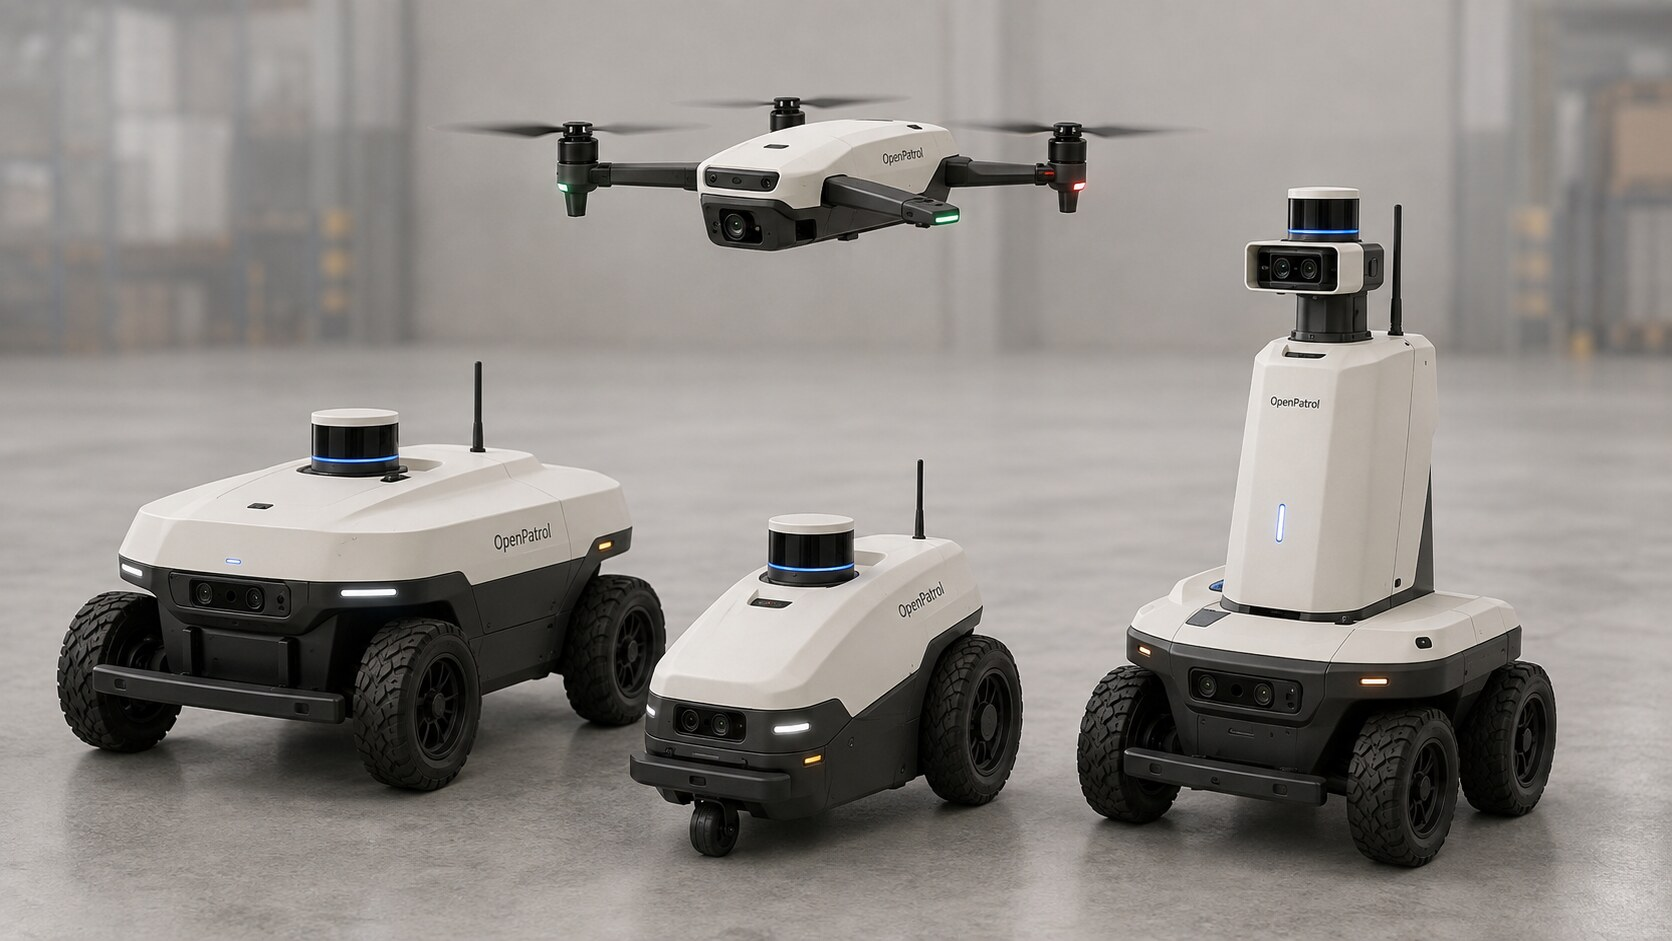
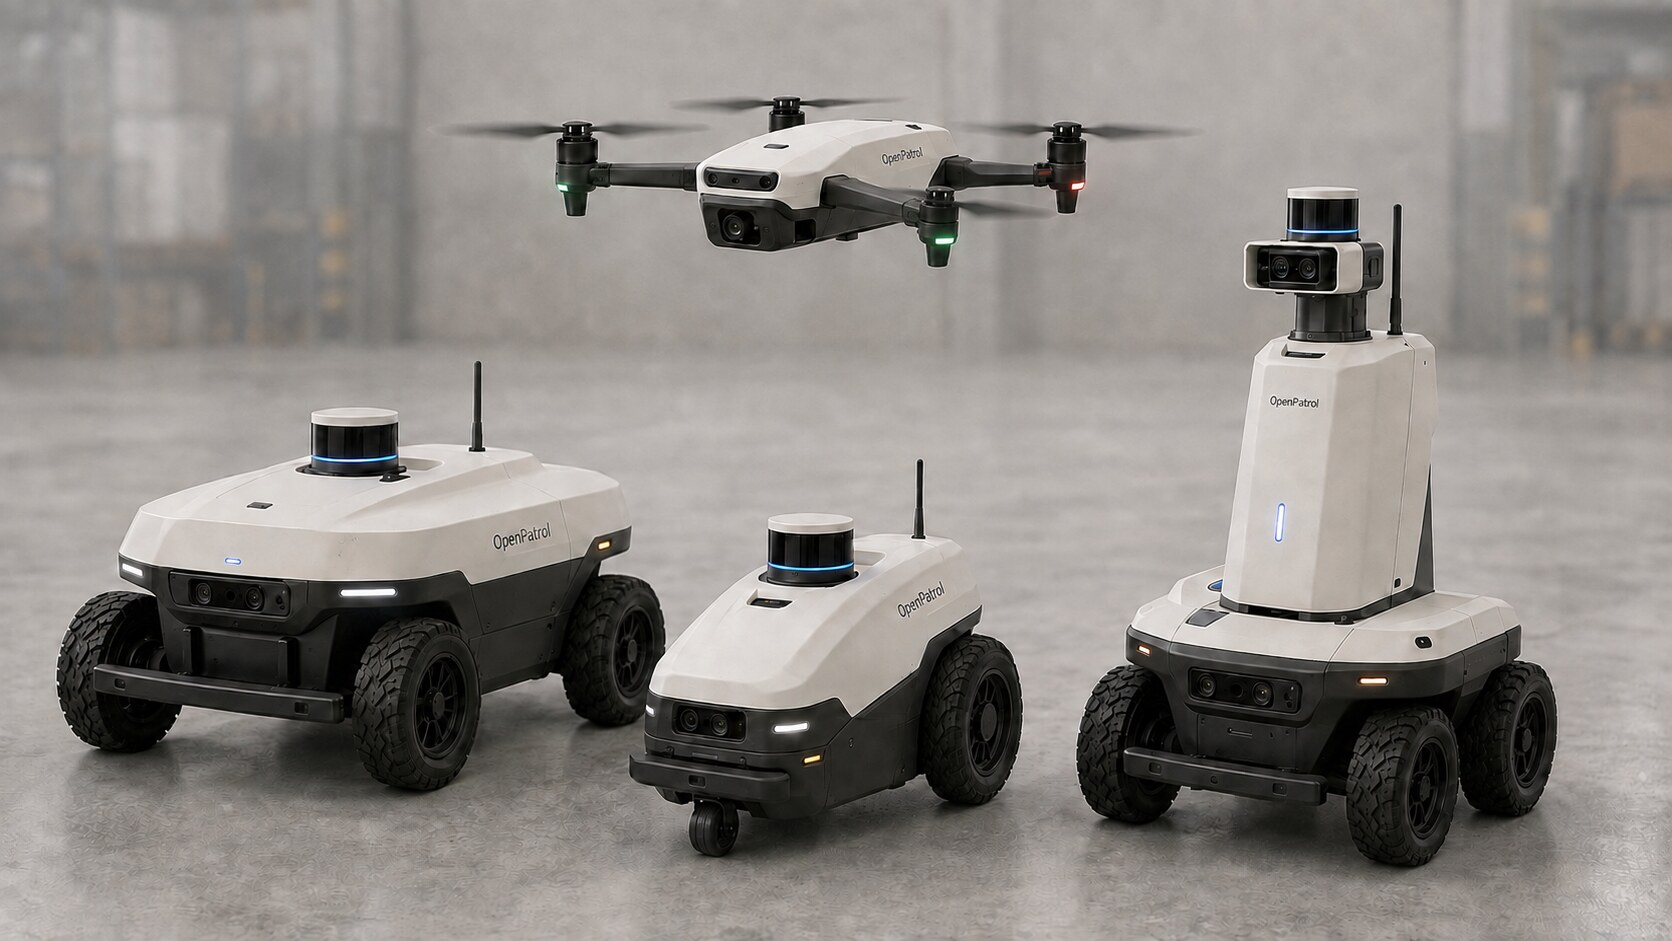
Fix AirScout renders and complete GitHub Pages presentation

diff --git a/site/styles.css b/site/styles.css
@@ -1,7 +1,7 @@
 :root{--ink:#111923;--muted:#536171;--line:#dce3ea;--soft:#f4f7f9;--orange:#ff5a1f;--blue:#2169c8;--max:1240px}
 *{box-sizing:border-box}html{scroll-behavior:smooth}body{margin:0;color:var(--ink);background:#fff;font:16px/1.55 Inter,ui-sans-serif,system-ui,-apple-system,BlinkMacSystemFont,"Segoe UI",sans-serif}a{color:inherit;text-decoration:none}.wrap{max-width:var(--max);margin:auto;padding-left:32px;padding-right:32px}
 .nav{height:72px;border-bottom:1px solid var(--line);display:flex;align-items:center;padding:0 max(24px,calc((100vw - var(--max))/2 + 32px));gap:42px;position:sticky;top:0;background:rgba(255,255,255,.94);backdrop-filter:blur(12px);z-index:10}.brand{font-size:19px;font-weight:760;display:flex;align-items:center;gap:10px}.mark{width:32px;height:32px;display:grid;place-items:center;border:2px solid var(--orange);color:var(--orange);font-size:10px;transform:rotate(45deg)}nav{display:flex;gap:28px;margin-left:auto}nav a,.nav-github{font-size:14px;color:#344252}.nav-github{font-weight:700;color:var(--ink)}
-.hero{min-height:660px;display:grid;grid-template-columns:.8fr 1.2fr;align-items:center;gap:50px;padding-top:70px;padding-bottom:70px}.hero h1{font-size:clamp(52px,6vw,84px);line-height:.95;letter-spacing:-.06em;margin:0 0 30px}.hero h1 span{color:var(--blue)}.hero-copy>p{max-width:550px;color:var(--muted);font-size:19px}.actions{display:flex;gap:12px;margin:34px 0}.button{border:1px solid #b8c2cc;padding:12px 18px;font-weight:700;font-size:14px}.button.primary{background:var(--orange);border-color:var(--orange);color:#fff}.status{border-left:3px solid var(--orange);padding:7px 12px;display:flex;gap:14px;font-size:13px}.status strong{color:var(--orange);text-transform:uppercase}.hero-visual{position:relative;background-image:linear-gradient(#dbe7f8 1px,transparent 1px),linear-gradient(90deg,#dbe7f8 1px,transparent 1px);background-size:28px 28px;padding:28px;border:1px solid #c8dcf6}.hero-visual img{width:100%;display:block}.measure{position:absolute;color:var(--blue);font:11px ui-monospace,monospace}.m1{top:8px;left:10px}.m2{right:10px;bottom:8px}
+.hero{min-height:660px;display:grid;grid-template-columns:.8fr 1.2fr;align-items:center;gap:50px;padding-top:70px;padding-bottom:70px}.hero h1{font-size:clamp(52px,6vw,84px);line-height:.95;letter-spacing:-.06em;margin:0 0 30px}.hero h1 span{color:var(--blue)}.hero-copy>p{max-width:550px;color:var(--muted);font-size:19px}.actions{display:flex;gap:12px;margin:34px 0}.button{border:1px solid #b8c2cc;padding:12px 18px;font-weight:700;font-size:14px}.button.primary{background:var(--orange);border-color:var(--orange);color:#fff}.status{border-left:3px solid var(--orange);padding:7px 12px;display:flex;gap:14px;font-size:13px}.status strong{color:var(--orange);text-transform:uppercase}.hero-visual{position:relative;background-image:linear-gradient(#dbe7f8 1px,transparent 1px),linear-gradient(90deg,#dbe7f8 1px,transparent 1px);background-size:28px 28px;padding:28px;border:1px solid #c8dcf6}.hero-visual img{width:100%;display:block}.measure{position:absolute;color:var(--blue);font:11px ui-monospace,monospace}.m1{top:8px;left:10px}.m2{right:10px;bottom:8px}.product-hero{padding:12px;background:#e9edf0}.product-hero img{aspect-ratio:16/9;object-fit:cover}.operations{padding-top:20px;padding-bottom:90px}.operations figure{margin:36px 0 0}.operations img{display:block;width:100%;border:1px solid var(--line)}.operations figcaption{margin-top:10px;color:var(--muted);font:12px ui-monospace,monospace;text-transform:uppercase;letter-spacing:.04em}
 .band{background:var(--soft);padding:78px 0}.band h2,.section-head h2,.architecture h2,.platforms h2,.start h2,.boundary h2{font-size:38px;letter-spacing:-.035em;margin:0 0 15px}.band h2:after,.section-head h2:after,.architecture h2:after,.platforms h2:after,.start h2:after,.boundary h2:after{content:"";display:block;width:42px;border-bottom:3px solid var(--orange);padding-top:12px}.capabilities{display:grid;grid-template-columns:repeat(4,1fr);margin-top:45px}.capabilities article{padding:0 28px;border-left:1px solid var(--line)}.capabilities article:first-child{padding-left:0;border:0}.capabilities b{font:700 13px ui-monospace,monospace;color:var(--orange)}.capabilities h3{font-size:19px}.capabilities p,.section-head p,.platforms p,.start p,.boundary p{color:var(--muted)}
 .engineering,.platforms,.boundary{padding-top:95px;padding-bottom:95px}.section-head{display:flex;align-items:end;justify-content:space-between;gap:30px}.section-head>div{max-width:720px}.section-head>a{color:var(--blue);font-weight:700}.drawings{display:grid;grid-template-columns:1fr 1fr;gap:24px;margin-top:40px}.drawings figure{margin:0;border:1px solid #b9d0ec;background:#fbfdff}.drawings img{width:100%;height:370px;object-fit:contain}.drawings figcaption{border-top:1px solid #b9d0ec;padding:18px;display:flex;justify-content:space-between}.drawings figcaption span{color:var(--muted);font-size:14px}
 .architecture{padding:90px 0;background:#111923;color:#fff}.flow{display:grid;grid-template-columns:1fr auto 1fr auto 1fr auto 1.4fr;align-items:center;gap:22px;margin-top:45px}.flow div{min-height:130px;border-top:2px solid var(--orange);padding-top:18px}.flow strong{display:block;font-size:18px;margin-bottom:12px}.flow span{display:block;color:#aeb9c6;font-size:14px}.flow i{font-style:normal;color:var(--orange);font-size:25px}.platform-list{margin-top:38px;border-top:1px solid var(--line)}.platform-list>div{display:grid;grid-template-columns:1fr 2fr 1fr;gap:20px;padding:18px 4px;border-bottom:1px solid var(--line)}.platform-list span{color:var(--muted)}.platform-list em{text-align:right;font-style:normal;font-family:ui-monospace,monospace}

diff --git a/site/index.html b/site/index.html
@@ -14,10 +14,11 @@
   <main id="top">
     <section class="hero wrap">
       <div class="hero-copy"><h1>Open security.<br><span>Human control.</span></h1><p>One local-first command centre for existing cameras, security systems, patrol robots and drones—with evidence, alerts and consequential decisions kept under operator control.</p><div class="actions"><a class="button primary" href="https://github.com/eyeinthesky6/openpatrol">View on GitHub</a><a class="button" href="https://github.com/eyeinthesky6/openpatrol/tree/main/docs">Engineering docs</a></div><div class="status"><strong>Alpha</strong><span>Completed digital engineering prototype · Rev-A</span></div></div>
-      <div class="hero-visual"><img src="assets/openpatrol-hardware-family-concept.svg" alt="CAD-aligned concept of the OpenPatrol Rev-A hardware family"><span class="measure m1">REF A</span><span class="measure m2">SCALE 1:1</span></div>
+      <div class="hero-visual product-hero"><img src="assets/openpatrol-family-hero.jpg" alt="OpenPatrol Rover One, TriScout, four-rotor AirScout and Sentinel Rev-A product family"><span class="measure m1">REV-A VISUALISATION</span><span class="measure m2">DIGITAL PROTOTYPE</span></div>
     </section>
     <section id="capabilities" class="band"><div class="wrap"><h2>One incident workflow. Open at every edge.</h2><div class="capabilities"><article><b>01</b><h3>Command centre</h3><p>Camera wall, device inventory, patrol state, incident review, evidence receipts and an operator audit trail.</p></article><article><b>02</b><h3>Open integrations</h3><p>RTSP, ONVIF-compatible paths, Frigate, MQTT, NDJSON, alarm/access systems and a generic event API.</p></article><article><b>03</b><h3>Human-reviewed alerts</h3><p>Fuse weak observations into incident candidates, then route browser, audio, strobe, siren and talkback actions.</p></article><article><b>04</b><h3>Robot + drone simulation</h3><p>ROS 2 Jazzy, Nav2 and Gazebo workflows with bounded physical adapters for ground platforms and AirScout.</p></article></div></div></section>
     <section id="engineering" class="wrap engineering"><div class="section-head"><div><h2>Engineering you can inspect</h2><p>The public visuals use the same geometry and controlled design language as the Rev-A OpenSCAD sources and locked drawing schedules.</p></div><a href="https://github.com/eyeinthesky6/openpatrol/tree/main/hardware">Browse hardware packs →</a></div><div class="drawings"><figure><img src="assets/sentinel-mast-envelope.svg" alt="Sentinel Rev-A mast dimensional envelope"><figcaption><strong>Sentinel Rev-A</strong><span>460 × 400 mm base · 980–1,500 mm sensor head</span></figcaption></figure><figure><img src="assets/airscout-envelope.svg" alt="AirScout Rev-A dimensional envelope"><figcaption><strong>AirScout Rev-A</strong><span>380 mm motor diagonal · 9-inch propeller envelope</span></figcaption></figure></div></section>
+    <section class="wrap operations"><div class="section-head"><div><h2>One system, across the site</h2><p>Rover One, Sentinel and the four-rotor AirScout share the same operator-controlled incident workflow.</p></div></div><figure><img src="assets/openpatrol-warehouse-operation.jpg" alt="OpenPatrol Rover One, Sentinel and four-rotor AirScout operating in a warehouse"><figcaption>Rev-A product visualisation · physical performance remains unvalidated</figcaption></figure></section>
     <section id="architecture" class="architecture"><div class="wrap"><h2>From signal to accountable action</h2><div class="flow"><div><strong>Sense</strong><span>Cameras · alarms · access · fixed sensors · robots</span></div><i>→</i><div><strong>Ingest</strong><span>Normalize open event contracts</span></div><i>→</i><div><strong>Fuse</strong><span>Create conservative incident candidates</span></div><i>→</i><div><strong>Review + act</strong><span>Operator decision · device alert · evidence audit</span></div></div></div></section>
     <section class="wrap platforms"><div class="section-head"><div><h2>Five reference builds</h2><p>Prototype sourcing estimates exclude labour, tax, validation and third-party equipment.</p></div></div><div class="platform-list"><div><strong>Rover One</strong><span>4-wheel ground patrol</span><em>₹36,891</em></div><div><strong>TriScout</strong><span>Low-cost smooth-floor rover</span><em>₹32,499</em></div><div><strong>AirScout</strong><span>Supervised aerial inspection</span><em>₹44,980</em></div><div><strong>Sentinel</strong><span>Elevated sensing + telepresence</span><em>₹66,890</em></div><div><strong>Sensor Hub</strong><span>8 zones + AV alert outputs</span><em>₹8,700</em></div></div></section>
     <section id="start" class="start"><div class="wrap start-grid"><div><h2>Run the lightweight core</h2><p>Python 3.11+. The command-centre demo has no third-party runtime dependency.</p><a href="https://github.com/eyeinthesky6/openpatrol/blob/main/docs/setup-guide.md">Full setup guide →</a></div><pre><code><span># install</span>
